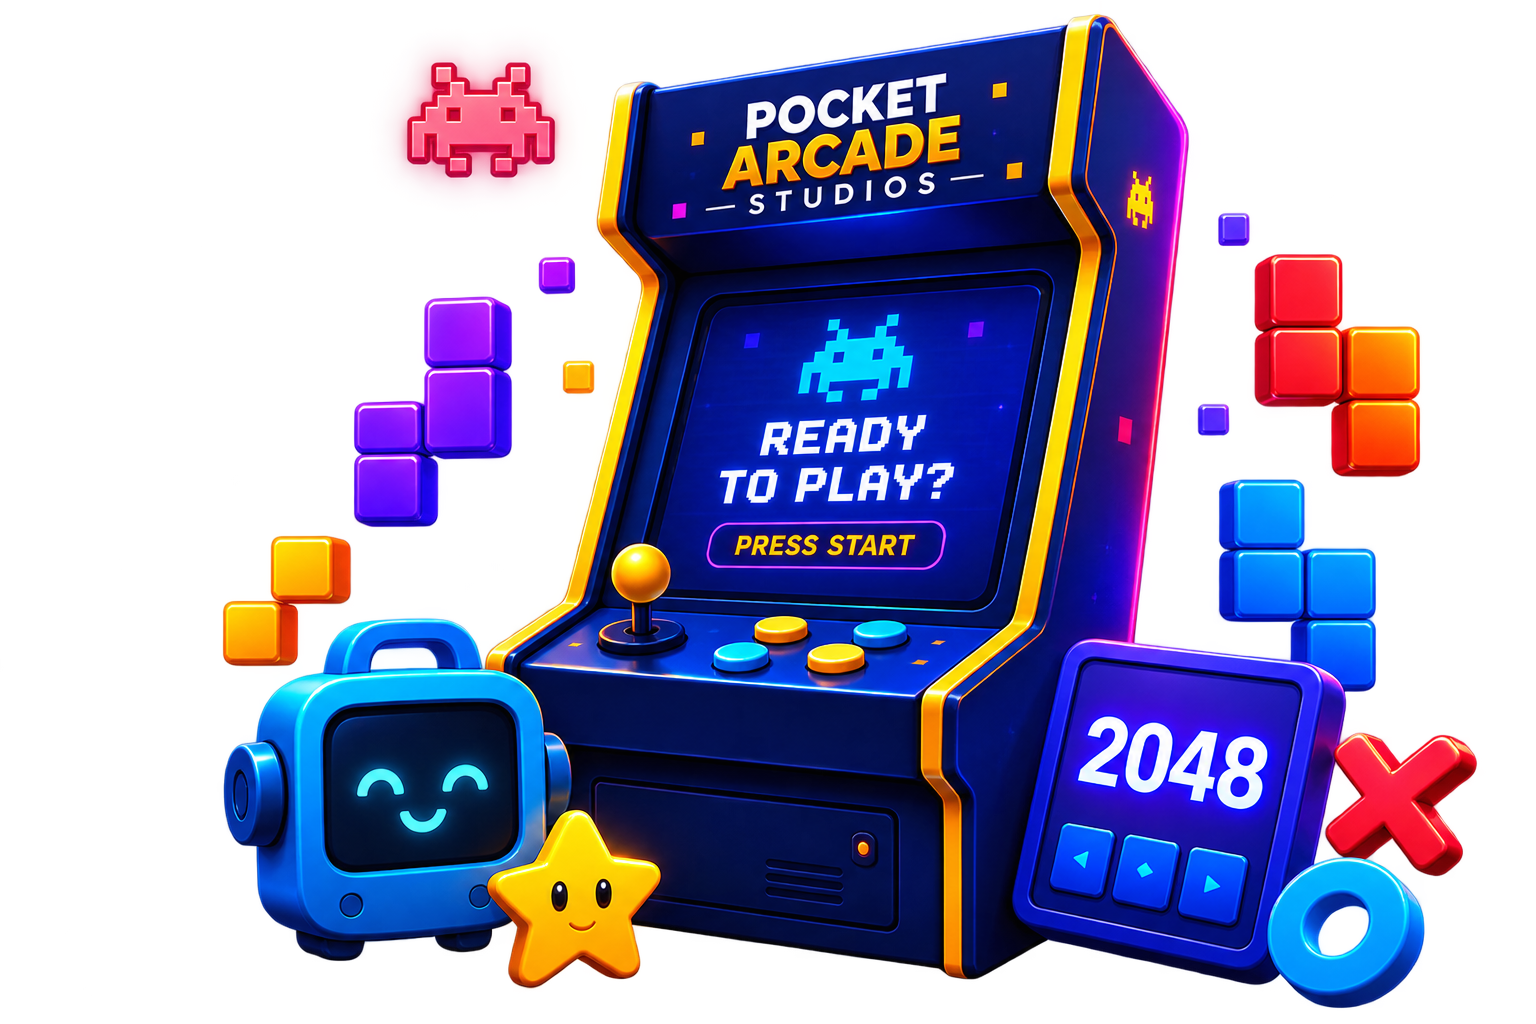
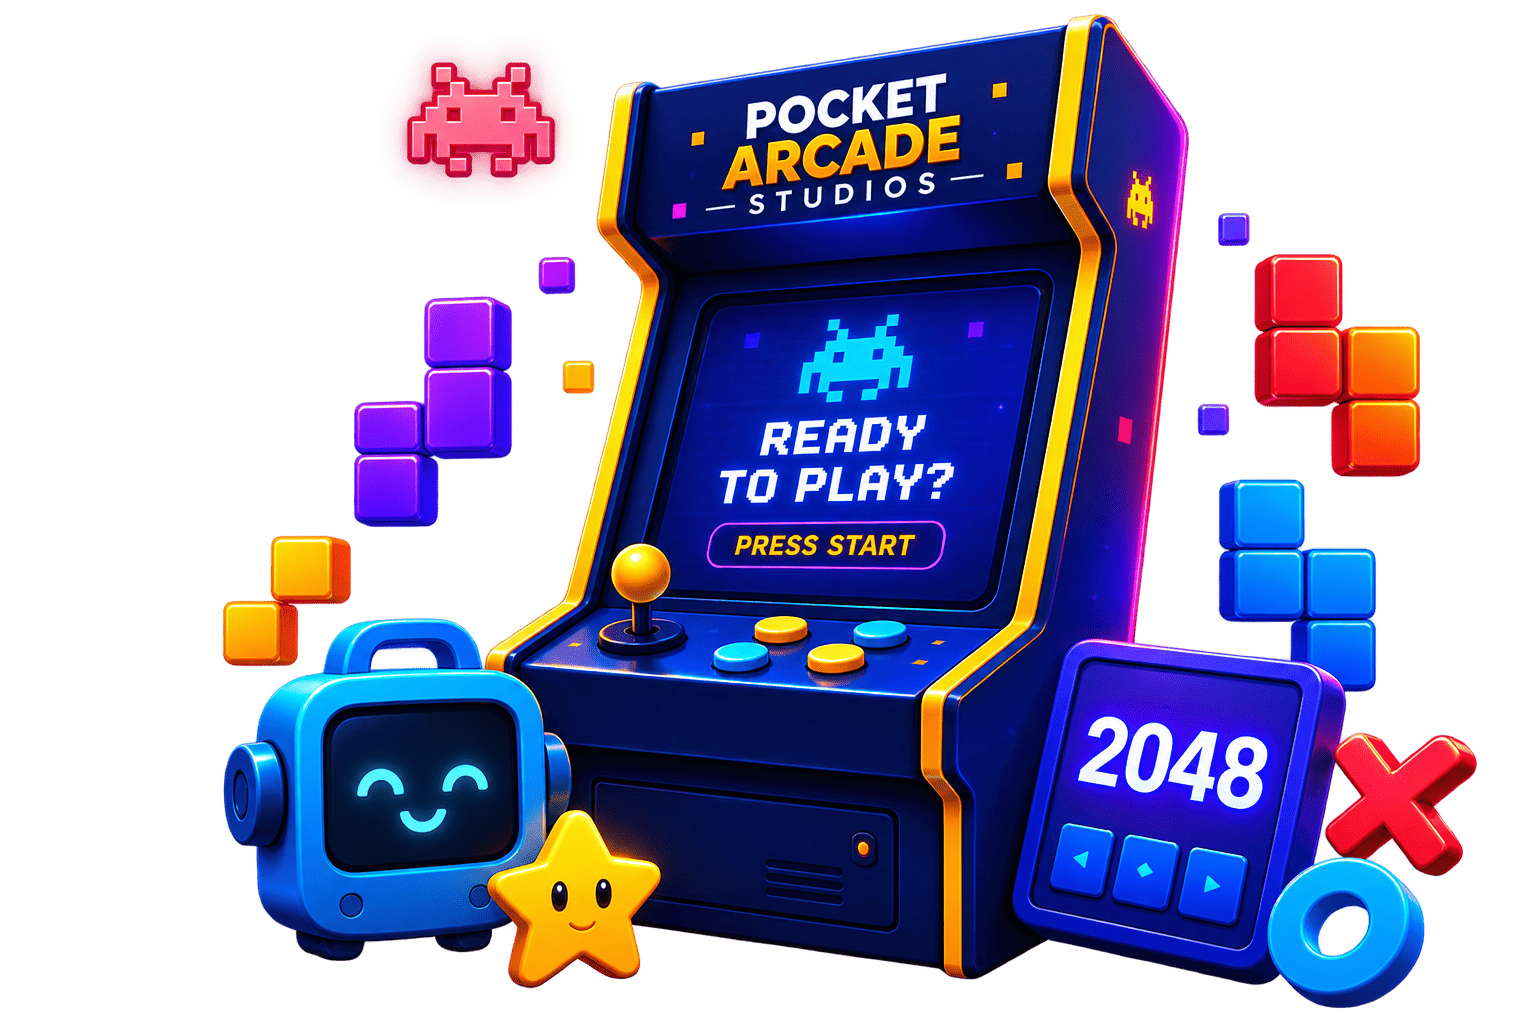
fix the minor UI elements

diff --git a/src/components/HeroSection.jsx b/src/components/HeroSection.jsx
@@ -125,6 +125,7 @@ export default function HeroSection() {
           position: absolute;
           border-radius: 50%;
           filter: blur(100px);
+          display: none;
         }
         .hero-glow-gold {
           width: 550px; height: 550px;
@@ -331,6 +332,7 @@ export default function HeroSection() {
           height: 80%;
           top: 50%; left: 50%;
           transform: translate(-50%, -50%);
+          display: none;
           background: radial-gradient(
             ellipse at center,
             rgba(56,189,248,0.12) 0%,
@@ -351,8 +353,8 @@ export default function HeroSection() {
           height: auto;
           object-fit: contain;
           animation: heroGraphicFloat 5s ease-in-out infinite;
-          filter: drop-shadow(0 20px 40px rgba(0,0,0,0.45))
-                  drop-shadow(0 6px 14px rgba(56,189,248,0.10));
+          filter: drop-shadow(0 20px 40px rgba(0,0,0,0.45));
+          mix-blend-mode: screen;
           will-change: transform;
         }
 

diff --git a/src/components/Navbar.jsx b/src/components/Navbar.jsx
@@ -66,11 +66,11 @@ export default function Navbar() {
           display: 'flex',
           alignItems: 'center',
           justifyContent: 'space-between',
-          background: isScrolled ? 'rgba(13, 27, 65, 0.92)' : 'rgba(15, 23, 42, 0.35)',
+          background: 'rgba(13, 27, 65, 0.92)',
           backdropFilter: 'blur(20px)',
           WebkitBackdropFilter: 'blur(20px)',
-          boxShadow: isScrolled ? '0 10px 30px rgba(0, 0, 0, 0.5), inset 0 -1px 0 rgba(255, 255, 255, 0.05)' : 'none',
-          borderBottom: isScrolled ? '1px solid rgba(251, 191, 36, 0.25)' : '1px solid transparent',
+          boxShadow: '0 10px 30px rgba(0, 0, 0, 0.5), inset 0 -1px 0 rgba(255, 255, 255, 0.05)',
+          borderBottom: '1px solid rgba(251, 191, 36, 0.25)',
           transition: 'all 0.3s ease',
         }}
       >

diff --git a/src/index.css b/src/index.css
@@ -642,6 +642,10 @@ section {
         order: 2 !important;
         /* Text second on mobile */
         width: 100%;
+        text-align: left;
+    }
+
+    .games-spotlight-text h4 {
         text-align: center;
     }
 
@@ -662,12 +666,6 @@ section {
     flex-direction: column;
     align-items: flex-start;
     width: fit-content;
-    margin: 0 auto;
+    margin: 0;
     text-align: left;
-}
-
-@media (min-width: 769px) {
-    .games-features-list {
-        margin: 0;
-    }
 }
